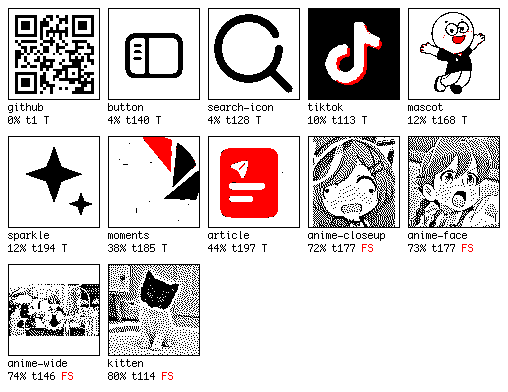
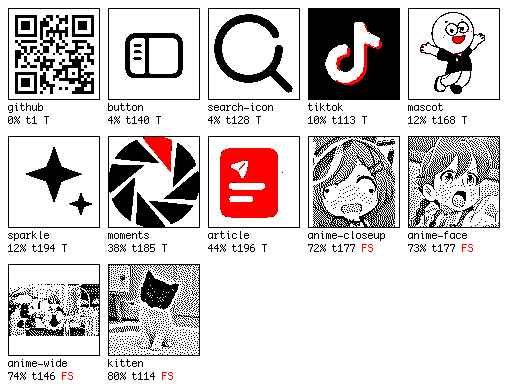
Reduce by distance from the paper when colour carries the shape
The Moments icon came out as a few fragments. It is eight pastel wedges
at much the same brightness, so its shape lives in hue: reduced by
luminance the yellow wedge at 218 and the cyan at 197 both sit above the
cut and vanish into the page, and what survives is whichever wedges
happened to fall the other side of it.

Measure the distance from white instead and every wedge is plainly ink.
When to do that is measurable: count the pixels that are clearly not
paper yet land on the paper side of the cut. Among the drawings, this
icon loses 32% that way and every other one loses under 6%.

Two things had to be got right for it to work. A tone rewrite invalidates
the threshold measured before it, so SuggestOptionsFor takes the cut from
the image actually being drawn while leaving every other decision with
the original measurement. And the pass keeps red rather than flattening
it, since three passes in a row have now silently emptied the red plane
by returning grey; it passes the original colour through instead of
substituting a saturated red, which would have pulled those pixels to
luminance 54 and skewed the recomputed cut.

The icon now draws all eight wedges with the red one in red, so the
panel finally uses all three inks on it.

Changed region(s): [[0.2067, 0.3673, 0.3839, 0.5816], [0.4724, 0.6122, 0.502, 0.6429]]

diff --git a/internal/display/image_profile.go b/internal/display/image_profile.go
@@ -4,6 +4,7 @@ import (
 	"fmt"
 	"image"
 	"image/color"
+	"math"
 )
 
 // A one-bit panel wants opposite treatment for the two kinds of source it
@@ -27,11 +28,19 @@ type ImageProfile struct {
 	// carries meaning measured 122 and above while incidental warmth reached
 	// 72 at most. Zero when nothing would reach the plane at all.
 	RedSeparation int
+	// LostToLuminance is the share of the image that is plainly not paper and
+	// yet lands on the paper side of Threshold, because its colour is light
+	// even though it is vivid. Artwork whose shapes differ in hue at one
+	// brightness disappears this way; ToneByColourDistance is the answer.
+	LostToLuminance float64
 	// Photographic reports whether the image reads as continuous tone.
 	Photographic bool
 	// RedIsMeaningful reports whether the red plane carries signal rather than
 	// a warm cast.
 	RedIsMeaningful bool
+	// ColourCarriesStructure reports that reducing this image by brightness
+	// would throw away much of what is in it.
+	ColourCarriesStructure bool
 }
 
 // photographicMidTone separates the two kinds. Measured across a sample of
@@ -44,6 +53,13 @@ const (
 	// across the sample: real red measured 122 to 186, incidental warmth 9 to
 	// 72, so the cut sits in the gap rather than being tuned to either side.
 	meaningfulRedSeparation = 100
+	// structuralColourLoss is how much an image may lose to a brightness cut
+	// before that cut is the wrong tool. Across the sample every drawing lost
+	// under 6% except the one built from pastel wedges, which lost 32%.
+	structuralColourLoss = 0.15
+	// paperMargin is how far from white a pixel must sit to count as ink at
+	// all, rather than as a tint of the page.
+	paperMargin = 60
 )
 
 // ProfileImage measures src as the panel will see it: alpha composited over
@@ -85,6 +101,26 @@ func ProfileImage(src image.Image) (ImageProfile, error) {
 	}
 	profile.Photographic = profile.MidToneFraction > photographicMidTone
 	profile.RedIsMeaningful = profile.RedSeparation >= meaningfulRedSeparation
+
+	// How much a brightness cut would discard can only be counted once that
+	// cut is known, so it takes a second pass.
+	lost := 0
+	for y := bounds.Min.Y; y < bounds.Max.Y; y++ {
+		for x := bounds.Min.X; x < bounds.Max.X; x++ {
+			r, g, b := channelsOverWhite(src.At(x, y))
+			if paperDistance(r, g, b) <= paperMargin {
+				continue // this really is paper
+			}
+			if 0.2126*r+0.7152*g+0.0722*b > float64(profile.Threshold) {
+				lost++
+			}
+		}
+	}
+	profile.LostToLuminance = float64(lost) / float64(total)
+	// A photograph is made of brightness, so losing some of it to the cut is
+	// expected and error diffusion is what answers it, not a different tone.
+	profile.ColourCarriesStructure = !profile.Photographic &&
+		profile.LostToLuminance > structuralColourLoss
 	return profile, nil
 }
 
@@ -240,4 +276,79 @@ func otsuThreshold(histogram []int, total int) int {
 		}
 	}
 	return min(254, max(1, best))
+}
+
+// ToneByColourDistance rewrites an image so that tone means "how far this pixel
+// is from the paper" rather than "how bright it is".
+//
+// Flat artwork often carries its structure in hue: the shapes differ in colour
+// while sitting at much the same brightness. Reduced by luminance, a yellow
+// shape at 218 and a cyan one at 197 are both simply lighter than the cut and
+// vanish into the page, taking the drawing with them. Measured as distance from
+// white instead, both are plainly ink.
+//
+// This is wrong for a photograph, where brightness is the subject; it is meant
+// for artwork whose colours sit on a light ground, which is what
+// ImageProfile.ColourCarriesStructure identifies.
+//
+// Pixels that would reach the red plane are passed through as red rather than
+// flattened to grey. Every other pass that rewrites tone has quietly emptied
+// the red plane on the way, because grey cannot satisfy a test that wants red
+// above green; there is no reason to throw away an ink the panel has. Whether
+// the red is actually drawn remains ImageOptions.DisableRed's decision.
+//
+// The result carries a different distribution of tone from the original, so a
+// threshold measured before this runs no longer describes it. Profile the
+// result to get the cut, as SuggestOptionsFor does.
+func ToneByColourDistance(src image.Image) (image.Image, error) {
+	if src == nil {
+		return nil, fmt.Errorf("source image must not be nil")
+	}
+	bounds := src.Bounds()
+	if bounds.Empty() {
+		return nil, fmt.Errorf("source image bounds must not be empty")
+	}
+	out := image.NewNRGBA(image.Rect(0, 0, bounds.Dx(), bounds.Dy()))
+	for y := range bounds.Dy() {
+		for x := range bounds.Dx() {
+			r, g, b := channelsOverWhite(src.At(bounds.Min.X+x, bounds.Min.Y+y))
+			if r > defaultRedThreshold && g < defaultRedMaxGreen {
+				// Passed through unchanged rather than replaced with pure red:
+				// the colour already satisfies the red test, and substituting
+				// a saturated one would drag its luminance to 54 and skew any
+				// threshold measured from the result.
+				out.SetNRGBA(x, y, color.NRGBA{R: uint8(r), G: uint8(g), B: uint8(b), A: 0xff})
+				continue
+			}
+			level := uint8(min(255, max(0, 255-int(paperDistance(r, g, b)))))
+			out.SetNRGBA(x, y, color.NRGBA{R: level, G: level, B: level, A: 0xff})
+		}
+	}
+	return out, nil
+}
+
+// paperDistance is how far a colour sits from white, on the same 0..255 scale
+// as a channel so it can stand in for tone.
+func paperDistance(r, g, b float64) float64 {
+	dr, dg, db := 255-r, 255-g, 255-b
+	return math.Sqrt((dr*dr + dg*dg + db*db) / 3)
+}
+
+// SuggestOptionsFor is SuggestOptions for an image that has been rewritten
+// since it was profiled. A pass such as ToneByColourDistance or
+// EnhanceContrast moves tone around, which leaves the measured cut describing
+// pixels that no longer exist; the cut is taken from the drawn image while
+// every other decision stays with the original measurement, because those
+// decisions are about what the picture is and that has not changed.
+func (p ImageProfile) SuggestOptionsFor(drawn image.Image) (ImageOptions, error) {
+	options := p.SuggestOptions()
+	if options.Dither != DitherThreshold {
+		return options, nil
+	}
+	redrawn, err := ProfileImage(drawn)
+	if err != nil {
+		return options, err
+	}
+	options.Threshold = redrawn.Threshold
+	return options, nil
 }

diff --git a/internal/display/image_profile_test.go b/internal/display/image_profile_test.go
@@ -247,3 +247,124 @@ func TestEnhanceContrastDiscardsColour(t *testing.T) {
 		t.Fatal("red survived the contrast pass, so its documented limit is wrong")
 	}
 }
+
+// The failure this exists for: an icon whose shapes differ in hue and whose
+// brightness straddles the cut, so some shapes land on the paper side and
+// disappear. Measured against the paper instead, they are all ink.
+func TestColourCarriesStructureIsDetectedAndAnswered(t *testing.T) {
+	source := solidImage(60, 60, func(x, y int) color.NRGBA {
+		switch {
+		case y < 16:
+			return color.NRGBA{R: 0xd8, G: 0x50, B: 0x40, A: 0xff} // vermilion
+		case y < 32:
+			return color.NRGBA{R: 0xf2, G: 0xe1, B: 0x4f, A: 0xff} // yellow
+		case y < 48:
+			return color.NRGBA{R: 0x5f, G: 0xe0, B: 0xe8, A: 0xff} // cyan
+		default:
+			return color.NRGBA{R: 0xff, G: 0xff, B: 0xff, A: 0xff} // paper
+		}
+	})
+
+	profile, err := ProfileImage(source)
+	if err != nil {
+		t.Fatal(err)
+	}
+	if profile.Photographic {
+		t.Fatal("flat wedges read as a photograph")
+	}
+	if !profile.ColourCarriesStructure {
+		t.Fatalf("colour structure not detected; only %.1f%% counted as lost", 100*profile.LostToLuminance)
+	}
+
+	painted := func(img image.Image, options ImageOptions) int {
+		frame := newTestFrame(t, 60, 60)
+		if err := NewCanvas(frame).DrawImage(img, frame.Bounds(), options); err != nil {
+			t.Fatal(err)
+		}
+		return 60*60 - countInk(frame, InkWhite)
+	}
+	byBrightness := painted(source, profile.SuggestOptions())
+
+	toned, err := ToneByColourDistance(source)
+	if err != nil {
+		t.Fatal(err)
+	}
+	options, err := profile.SuggestOptionsFor(toned)
+	if err != nil {
+		t.Fatal(err)
+	}
+	byDistance := painted(toned, options)
+
+	if byDistance <= byBrightness {
+		t.Fatalf("colour distance painted %d pixels against brightness %d; it is meant to recover shapes, not lose them",
+			byDistance, byBrightness)
+	}
+}
+
+// A drawing that is dark where it is inked has nothing to gain here, and must
+// not be dragged onto the other path.
+func TestPlainArtworkDoesNotNeedColourDistance(t *testing.T) {
+	source := solidImage(40, 40, func(x, y int) color.NRGBA {
+		if x >= 10 && x < 30 {
+			return color.NRGBA{A: 0xff}
+		}
+		return color.NRGBA{R: 0xff, G: 0xff, B: 0xff, A: 0xff}
+	})
+	profile, err := ProfileImage(source)
+	if err != nil {
+		t.Fatal(err)
+	}
+	if profile.ColourCarriesStructure {
+		t.Errorf("black on white was sent down the colour path, losing %.1f%%", 100*profile.LostToLuminance)
+	}
+}
+
+// Rewriting tone has emptied the red plane every other time; this pass keeps
+// it, and keeps the original colour rather than substituting a saturated red,
+// which would drag the luminance of those pixels to 54 and skew any cut
+// measured from the result.
+func TestToneByColourDistanceKeepsRed(t *testing.T) {
+	// Paper has to be present for "the yellow becomes ink" to mean anything:
+	// with only two colours the cut simply lands between them.
+	source := solidImage(30, 30, func(x, y int) color.NRGBA {
+		switch {
+		case x < 10:
+			return color.NRGBA{R: 0xd8, G: 0x50, B: 0x40, A: 0xff} // convincingly red
+		case x < 20:
+			return color.NRGBA{R: 0xf2, G: 0xe1, B: 0x4f, A: 0xff} // light yellow
+		default:
+			return color.NRGBA{R: 0xff, G: 0xff, B: 0xff, A: 0xff} // paper
+		}
+	})
+	profile, err := ProfileImage(source)
+	if err != nil {
+		t.Fatal(err)
+	}
+	toned, err := ToneByColourDistance(source)
+	if err != nil {
+		t.Fatal(err)
+	}
+	options, err := profile.SuggestOptionsFor(toned)
+	if err != nil {
+		t.Fatal(err)
+	}
+	frame := newTestFrame(t, 30, 30)
+	if err := NewCanvas(frame).DrawImage(toned, frame.Bounds(), options); err != nil {
+		t.Fatal(err)
+	}
+	if countInk(frame, InkRed) == 0 {
+		t.Error("red was flattened away by the tone pass")
+	}
+	if countInk(frame, InkBlack) == 0 {
+		t.Error("the light yellow half did not become ink")
+	}
+}
+
+func TestToneByColourDistanceRejectsBadInput(t *testing.T) {
+	if _, err := ToneByColourDistance(nil); err == nil {
+		t.Fatal("ToneByColourDistance accepted a nil image")
+	}
+	if _, err := ToneByColourDistance(image.NewNRGBA(image.Rectangle{})); err == nil {
+		t.Fatal("ToneByColourDistance accepted an empty image")
+	}
+}

diff --git a/examples/gallery/main.go b/examples/gallery/main.go
@@ -155,9 +155,20 @@ func treatmentOf(profile display.ImageProfile) string {
 // Whether every photograph wants this is not settled. It rescues a dark
 // subject, and the sample here contains exactly one photograph, so the rule is
 // applied where it is known to help and left visible rather than buried.
-func prepare(entry asset, target image.Rectangle) (image.Image, error) {
+func prepare(entry asset, target image.Rectangle) (image.Image, display.ImageOptions, error) {
+	if entry.profile.ColourCarriesStructure {
+		// Brightness would throw this drawing away; measure it against the
+		// paper instead. That moves the tone, so the cut has to be taken again
+		// from what is actually going to be drawn.
+		toned, err := display.ToneByColourDistance(entry.image)
+		if err != nil {
+			return nil, display.ImageOptions{}, err
+		}
+		options, err := entry.profile.SuggestOptionsFor(toned)
+		return toned, options, err
+	}
 	if !entry.profile.Photographic {
-		return entry.image, nil
+		return entry.image, entry.profile.SuggestOptions(), nil
 	}
 	// A very dark subject wants more than this and cel-shaded artwork wants
 	// less; no measurement in the profile separates those two cases, so one
@@ -165,7 +176,8 @@ func prepare(entry asset, target image.Rectangle) (image.Image, error) {
 	// single example of each.
 	const featureSizeOnPanel, contrastAmount = 7, 1.4
 	reduction := max(1, entry.image.Bounds().Dx()/max(1, target.Dx()))
-	return display.EnhanceContrast(entry.image, featureSizeOnPanel*reduction, contrastAmount)
+	sharpened, err := display.EnhanceContrast(entry.image, featureSizeOnPanel*reduction, contrastAmount)
+	return sharpened, entry.profile.SuggestOptions(), err
 }
 
 func redVerdict(profile display.ImageProfile) string {
@@ -193,11 +205,11 @@ func renderCard(entry asset, fonts *display.FontRegistry) (*display.Frame, error
 
 	frameBox := image.Rect(6, 24, 110, 122)
 	canvas.StrokeRoundRect(frameBox, 4, display.StrokeStyle{Ink: display.InkBlack, Width: 1})
-	prepared, err := prepare(entry, frameBox.Inset(4))
+	prepared, options, err := prepare(entry, frameBox.Inset(4))
 	if err != nil {
 		return nil, err
 	}
-	if err := canvas.DrawImage(prepared, frameBox.Inset(4), entry.profile.SuggestOptions()); err != nil {
+	if err := canvas.DrawImage(prepared, frameBox.Inset(4), options); err != nil {
 		return nil, err
 	}
 
@@ -258,11 +270,11 @@ func renderSheet(entries []asset, fonts *display.FontRegistry) (*display.Frame, 
 			gap+column*(cell+gap), gap+row*(cell+gap+caption),
 			gap+column*(cell+gap)+cell, gap+row*(cell+gap+caption)+cell,
 		)
-		prepared, err := prepare(entry, box)
+		prepared, options, err := prepare(entry, box)
 		if err != nil {
 			return nil, err
 		}
-		if err := canvas.DrawImage(prepared, box, entry.profile.SuggestOptions()); err != nil {
+		if err := canvas.DrawImage(prepared, box, options); err != nil {
 			return nil, err
 		}
 		canvas.StrokeRect(box, display.StrokeStyle{Ink: display.InkBlack, Width: 1})

diff --git a/examples/gallery/main_test.go b/examples/gallery/main_test.go
@@ -72,11 +72,11 @@ func TestSuggestionsAvoidTheKnownFailures(t *testing.T) {
 			if err != nil {
 				t.Fatal(err)
 			}
-			prepared, err := prepare(entry, frame.Bounds())
+			prepared, options, err := prepare(entry, frame.Bounds())
 			if err != nil {
 				t.Fatal(err)
 			}
-			if err := display.NewCanvas(frame).DrawImage(prepared, frame.Bounds(), entry.profile.SuggestOptions()); err != nil {
+			if err := display.NewCanvas(frame).DrawImage(prepared, frame.Bounds(), options); err != nil {
 				t.Fatal(err)
 			}
 			ink := 88*88 - countInk(frame, display.InkWhite)

diff --git a/PROTOCOL.md b/PROTOCOL.md
@@ -282,6 +282,8 @@ glyph = hzk12_bytes[offset : offset + 24]  # MSB first，逐行取位
   - **Otsu 阈值** 取代写死的 128。这是必需的：`sparkle.png` 整体亮于 128，固定阈值下**整块变白**，Otsu 切在 194 才把图形救回来。
   - **红色分离度** 决定要不要关红色。红平面判定 `R>170 且 G<170` 收得太松，皮肤、粉色头发、木质全都命中——三张动画素材在不关红色时**大面积泛红**。判据是：在触发红色的像素里取 R−G 的中位数，实测真红 122–186（tiktok 186、article 135、朋友圈 127、线稿的嘴 122），假红 9–72（粉发 67–72、暖色调 43、暖灰 9），中间空 50 点，切在 100。对应 `ImageOptions.DisableRed`。
     早先用「彩色像素占比」做判据是**不够的**：它抓得住近乎单色的猫，抓不住动画——那些图确实有颜色，只是那颜色不是红。
+  - **色相承载结构** 决定用哪个通道当墨量。朋友圈图标是 8 片同亮度不同色相的粉彩花瓣，黄色亮度 218、青色 197，都在 Otsu 的 185 之上被判成白 → **整片消失**。判据是「离纸距离大于 60 却仍落在阈值亮侧」的像素占比：非照片素材里朋友圈 31.7%，其余全部低于 6%。命中时改用 `ToneByColourDistance`，把「离白色多远」当作墨量而不是亮度。
+    **色调重写会让原图算出的阈值失效**，必须用 `SuggestOptionsFor` 从重写后的图重新取切点。这个坑我先踩过一次： 最初把红色像素替换成纯红 `(255,0,0)`，而纯红亮度是 54，直接把重算的直方图带偏。现在改为透传原色——红色判定照样命中，亮度保持真实。
   - **`EnhanceContrast`** 是连续调素材的前处理。深色主体需要强一些（猫在 2.4 下最清楚），赛璐璐动画需要弱一些（2.4 会过锐糊脸，1.2–1.4 合适）。**profile 里没有任何测量能区分这两种情况**——暗部占比在猫（12.8%）和动画广角（20.2%）上是反的，所以没有做成自动规则，example 里统一用 1.4，强度留给调用方。
     另外注意这个前处理**曾经掩盖过红色泛滥的 bug**：它输出灰度，顺带让红平面失效，所以只有在去掉锐化对照时才暴露出来。
   - 运行 `go run ./examples/gallery` 重新生成 `gallery.png` 联系表和 `out/` 下每张素材的 296×128 面板图；`-payload-for <name>` 可导出单张的真机 payload。素材来源与许可风险见 `examples/gallery/assets/SOURCE`。**尚未上真机确认。**
